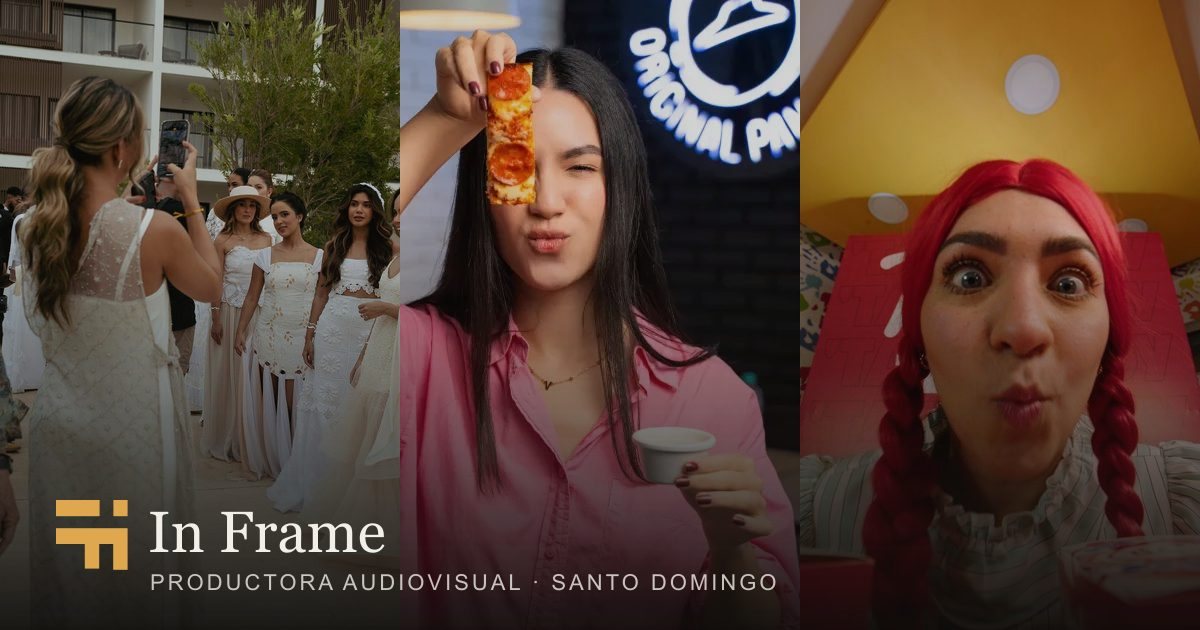
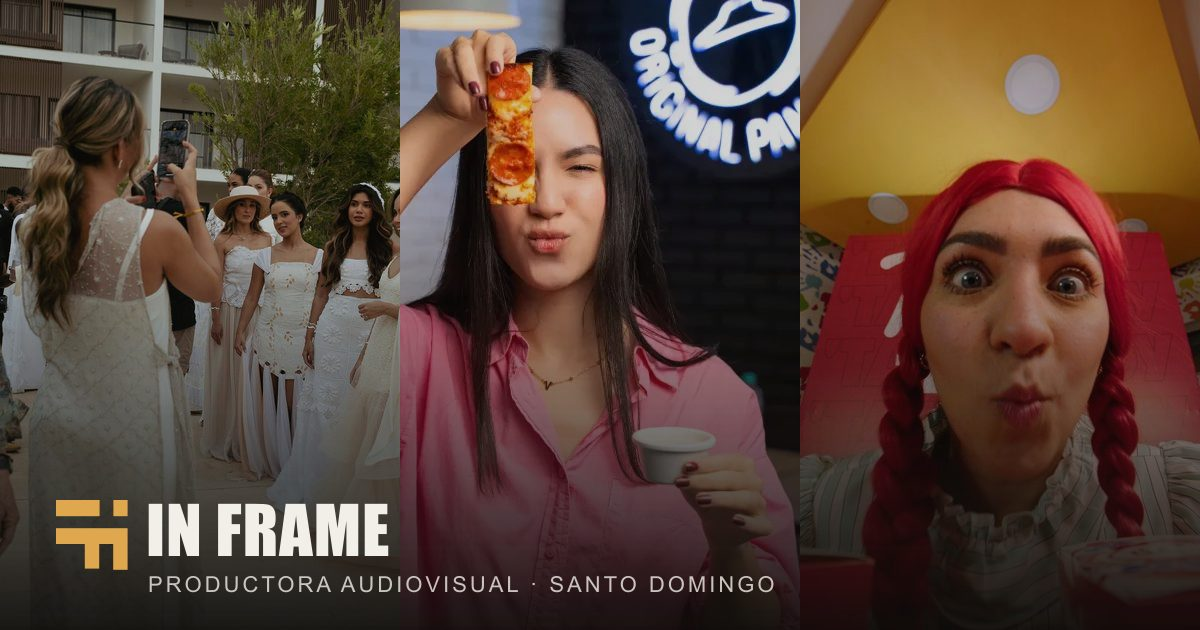
Fix mobile menu breaking when the page is scrolled; tidy mobile filters; update share image
The sticky nav's backdrop-filter made it the containing block for the
fixed menu overlay. The blur now sits on a pseudo-element.

Changed region(s): [[0.1233, 0.7841, 0.4317, 0.9349], [0.4625, 0.9048, 0.6475, 0.9349]]

diff --git a/styles.css b/styles.css
@@ -61,10 +61,14 @@ em { font-style: normal; color: var(--accent); }
   position: fixed; inset: 0 0 auto 0; z-index: 50;
   display: flex; align-items: center; justify-content: space-between;
   padding: 16px var(--pad);
-  transition: background 0.4s, border-color 0.4s, padding 0.4s;
+  transition: border-color 0.4s, padding 0.4s;
   border-bottom: 1px solid transparent;
 }
-.nav.is-stuck { background: color-mix(in srgb, var(--bg) 82%, transparent); backdrop-filter: blur(14px); border-color: var(--line); padding-block: 12px; }
+.nav.is-stuck { border-color: var(--line); padding-block: 12px; }
+/* The blurred bar lives on a pseudo-element: a backdrop-filter on .nav itself would turn it into the
+   containing block for the fixed mobile menu and break that menu whenever the page is scrolled. */
+.nav::before { content: ""; position: absolute; inset: 0; z-index: -1; transition: background 0.4s; }
+.nav.is-stuck::before { background: color-mix(in srgb, var(--bg) 82%, transparent); backdrop-filter: blur(14px); }
 .brand { display: inline-flex; align-items: center; gap: 10px; min-height: 44px; font: 800 1.625rem/1 var(--display); letter-spacing: 0.02em; }
 .brand__mark { width: 22px; height: 21.5px; flex: none; fill: var(--accent); }
 
@@ -205,6 +209,8 @@ em { font-style: normal; color: var(--accent); }
 @media (max-width: 1000px) { .grid { grid-template-columns: repeat(3, 1fr); } }
 @media (max-width: 640px) {
   .grid { grid-template-columns: repeat(2, 1fr); }
+  .chips { gap: 0 18px; }
+  .chip { font-size: 0.75rem; letter-spacing: 0.06em; }
   .card__info { padding: 40px 10px 10px; }
   .card:not(.card--big) .card__info strong { font-size: 1.0625rem; }
   .card:not(.card--big) .card__info small { display: none; }
